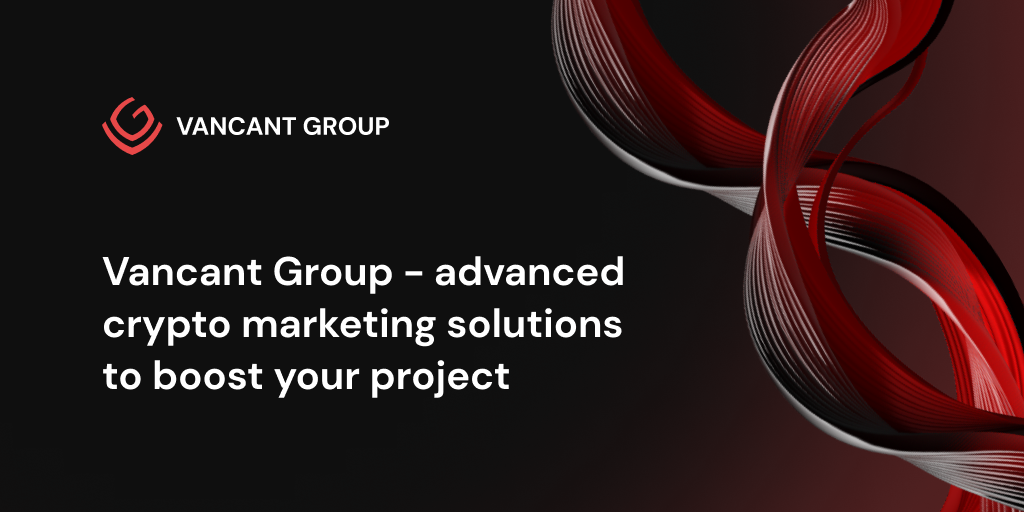
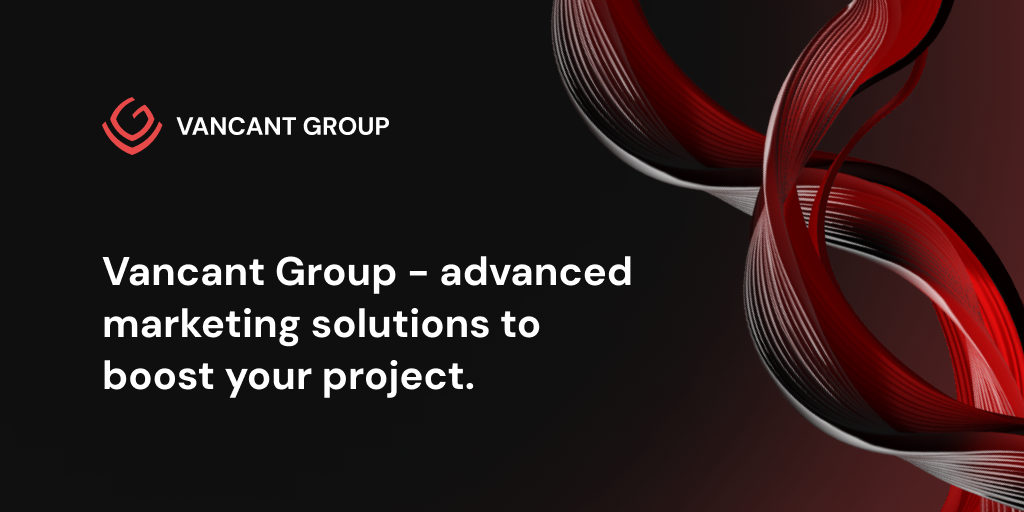
Fixed content

Changed region(s): [[0.0938, 0.5, 0.625, 0.6875], [0.0938, 0.7188, 0.5, 0.7812]]

diff --git a/src/app/[locale]/blog/_components/BlogWrap.jsx b/src/app/[locale]/blog/_components/BlogWrap.jsx
@@ -11,11 +11,11 @@ function BlogWrap({mainPostTitle, mainPostDescription, secondaryPost1Title, seco
         <div className="blog-wrap__body">
           <div className="left">
             <RevealWrapper origin="bottom">
-              <Link href="/blog/maximising-roi-effective-strategies-for-optimising-ppc-campaigns-in-crypto-marketing">
+              <Link href="/blog/maximising-roi-effective-strategies-for-optimising-ppc-campaigns">
                 <img src="/images/blog.png" />
               </Link>
               <h2>
-                <Link href="/blog/maximising-roi-effective-strategies-for-optimising-ppc-campaigns-in-crypto-marketing">
+                <Link href="/blog/maximising-roi-effective-strategies-for-optimising-ppc-campaigns">
                   {mainPostTitle}
                 </Link>
               </h2>
@@ -23,7 +23,7 @@ function BlogWrap({mainPostTitle, mainPostDescription, secondaryPost1Title, seco
                 {mainPostDescription}
               </p>
               <Link
-                href="/blog/maximising-roi-effective-strategies-for-optimising-ppc-campaigns-in-crypto-marketing"
+                href="/blog/maximising-roi-effective-strategies-for-optimising-ppc-campaigns"
                 className="main-button"
               >
                 {readButton}
@@ -33,12 +33,12 @@ function BlogWrap({mainPostTitle, mainPostDescription, secondaryPost1Title, seco
           <div className="right">
             <RevealWrapper origin="bottom">
               <h2>
-                <Link href="/blog/maximising-roi-effective-strategies-for-optimising-ppc-campaigns-in-crypto-marketing">
+                <Link href="/blog/navigating-regulatory-challenges-compliance-tips-for-advertising">
                   {secondaryPost1Title}
                 </Link>
               </h2>
               <Link
-                href="/blog/navigating-regulatory-challenges-compliance-tips-for-crypto-advertising"
+                href="/blog/navigating-regulatory-challenges-compliance-tips-for-advertising"
                 className="main-button"
               >
                 {readButton}
@@ -46,12 +46,12 @@ function BlogWrap({mainPostTitle, mainPostDescription, secondaryPost1Title, seco
             </RevealWrapper>
             <RevealWrapper origin="bottom">
               <h2>
-                <Link href="/blog/maximising-roi-effective-strategies-for-optimising-ppc-campaigns-in-crypto-marketing">
+                <Link href="/blog/harnessing-the-power-of-influencer-marketing">
                  {secondaryPost2Title}
                 </Link>
               </h2>
               <Link
-                href="/blog/harnessing-the-power-of-influencer-marketing-in-cryptocurrency-promotion"
+                href="/blog/harnessing-the-power-of-influencer-marketing"
                 className="main-button"
               >
                 {readButton}
@@ -59,12 +59,12 @@ function BlogWrap({mainPostTitle, mainPostDescription, secondaryPost1Title, seco
             </RevealWrapper>
             <RevealWrapper origin="bottom">
               <h2>
-                <Link href="/blog/maximising-roi-effective-strategies-for-optimising-ppc-campaigns-in-crypto-marketing">
+                <Link href="/blog/content-marketing-crafting-really-engaging-content-for-your-audiences">
                   {secondaryPost3Title}
                 </Link>
               </h2>
               <Link
-                href="/blog/crypto-content-marketing-crafting-engaging-content-for-digital-currency-audiences"
+                href="/blog/content-marketing-crafting-really-engaging-content-for-your-audiences"
                 className="main-button"
               >
                 {readButton}

diff --git a/src/lib/faqQuestionsEn.js b/src/lib/faqQuestionsEn.js
@@ -11,7 +11,7 @@ export const faqQuestionsEn = [
     {
         id: 2,
         category: 'SEO',
-        question: "We've developed a landing page to promote our crypto project, but it fails to rank on Google. What shall we do?",
+        question: "We've developed a landing page to promote our project, but it fails to rank on Google. What shall we do?",
         answer: `Landing pages often struggle to rank on search engines due to a lack of high-quality content, relevant backlinks, and natural mentions. To address this issue, consider the following strategies:
         <br/><br/>
         <strong>Improve your website:</strong> Develop a comprehensive website with valuable content that addresses user intent and pain points.
@@ -26,14 +26,11 @@ export const faqQuestionsEn = [
         id: 3,
         category: 'Community Building',
         question: "We have accounts on Facebook and Twitter, and we regularly post content in various formats. However, we're experiencing very low engagement and struggle to attract users. What are we doing wrong?",
-        answer: `To provide a comprehensive answer, we'd need more data and analysis. However, your current approach may be too heavily focused on content creation and quantitative metrics. In the crypto industry, effective promotion requires precision and specificity.
+        answer: `To provide a comprehensive answer, we'd need more data and analysis. However, your current approach may be too heavily focused on content creation and quantitative metrics. Effective promotion requires precision and specificity.
         <br/><br/>
-        One aspect to consider is whether you've chosen the right platforms for your project. While Facebook and Twitter are popular social networks, they may not be the most effective channels for reaching your target audience in the crypto space. Instead, focusing on crypto-specific media outlets and social networks could yield better results. 
+        One aspect to consider is whether you've chosen the right platforms for your project. While Facebook and Twitter are popular social networks, they may not be the most effective channels for reaching your target audience. Instead, focusing on industry-specific media outlets and social networks could yield better results. 
         <br/><br/>
-        These platforms are tailored to the interests of crypto enthusiasts and investors, making it easier to attract your target audience without the need for a significant budget.
-        <br/><br/>
-        Additionally, conducting a thorough audience analysis is essential. By understanding your target audience's preferences and pain points, you can tailor your content and targeting strategies to better resonate with them.
-        If you're able to provide more details, we can further explore the reasons behind your low engagement and collaborate on developing a growth strategy.`
+        Additionally, conducting a thorough audience analysis is essential. By understanding your target audience's preferences and pain points, you can tailor your content and targeting strategies to better resonate with them. If you're able to provide more details, we can further explore the reasons behind your low engagement and collaborate on developing a growth strategy.`
     },
     {
         id: 4,

diff --git a/src/lib/pricingEn.js b/src/lib/pricingEn.js
@@ -2,7 +2,7 @@ export const pricingEn = [
     {
         id: 1,
         title: "Brand new",
-        content: `Ideal for newly launched crypto projects, the Brand New Package provides comprehensive marketing support for startups. It includes everything needed to establish a strong online presence, build brand awareness, and attract the target audience.`,
+        content: `Ideal for newly launched projects, the Brand New Package provides comprehensive marketing support for startups. It includes everything needed to establish a strong online presence, build brand awareness, and attract the target audience.`,
         included: `<ul>
         <li>Branding: Logo design, brand identity development</li>
         <li>Website Development: Custom website design, development, and launch</li>
@@ -16,7 +16,7 @@ export const pricingEn = [
     {
         id: 2,
         title: "Launched",
-        content: `Designed for crypto projects with an existing website and branding, the Launched Package focuses on increasing visibility and engagement. It suits crypto businesses looking to enhance their online presence and attract more customers.`,
+        content: `Designed for the projects with an existing website and branding, the Launched Package focuses on increasing visibility and engagement. It suits businesses looking to enhance their online presence and attract more customers.`,
         included: `<ul>
         <li>SEO Optimization: Content optimization, link building</li>
         <li>PR Campaigns: Media relations, feature articles, press releases</li>
@@ -29,7 +29,7 @@ export const pricingEn = [
     {
         id: 3,
         title: "Established",
-        content: `The Established Package is suitable for crypto projects with an active website and community presence. It aims to boost traffic and authority and is ideal for crypto businesses seeking to expand their reach and strengthen their position in the market.`,
+        content: `The Established Package is suitable for the projects with an active website and community presence. It aims to boost traffic and authority and is ideal for businesses seeking to expand their reach and strengthen their position in the market.`,
         included: `<ul>
         <li>Paid Advertising: Google Ads, Facebook Ads, display advertising</li>
         <li>Content Marketing: Blog post writing, whitepapers, case studies</li>
@@ -42,7 +42,7 @@ export const pricingEn = [
     {
         id: 4,
         title: "Competing",
-        content: `Tailored for crypto projects ready to compete with rivals, the Competing Package offers advanced marketing solutions. It's designed for businesses looking to outshine competitors and dominate the niche.`,
+        content: `Tailored for projects ready to compete with rivals, the Competing Package offers advanced marketing solutions. It's designed for businesses looking to outshine competitors and dominate the niche.`,
         included: `<ul>
         <li>Additional Media Coverage: Press mentions, guest posting, industry awards</li>
         <li>Competitor Analysis: Detailed analysis of competitors' strategies and performance</li>

diff --git a/src/lib/servicesEn.js b/src/lib/servicesEn.js
@@ -15,7 +15,7 @@ export const servicesEn = [
     {
         id: 2,
         title: "Content Marketing and PR",
-        content: `Our expert team crafts compelling content and strategic PR campaigns to establish your project as a trusted authority in the crypto space. From impactful press releases and thought leadership articles to engaging guest blogs and media outreach, we ensure widespread recognition and positive sentiment.`,
+        content: `Our expert team crafts compelling content and strategic PR campaigns to establish your project as a trusted authority in the digital space. From impactful press releases and thought leadership articles to engaging guest blogs and media outreach, we ensure widespread recognition and positive sentiment. `,
         result: `Enhanced project credibility, increased media coverage, and improved brand reputation driving investor confidence and community engagement.`,
         included: `<ul>
         <li>Content creation (articles, blog posts, press releases)</li>
@@ -28,7 +28,7 @@ export const servicesEn = [
     {
         id: 3,
         title: "Community Engagement and Management",
-        content: `Our team fosters an engaged and active community around your crypto project. We ensure continuous interaction and participation through strategic social media management, interactive community forums, and engaging online events.`,
+        content: `Our team fosters an engaged and active community around your project. We ensure continuous interaction and participation through strategic social media management, interactive community forums, and engaging online events. `,
         result: `A loyal and enthusiastic following that drives word-of-mouth referrals, boosts project credibility, and increases user adoption rates.`,
         included: `<ul>
         <li>Social media management (content posting, engagement)</li>
@@ -54,7 +54,7 @@ export const servicesEn = [
     {
         id: 5,
         title: "Advertising and Promotion",
-        content: `Our targeted advertising campaigns across social media platforms, crypto-specific websites, and influencer partnerships maximise your project's reach and visibility. We drive high-quality traffic and engagement by strategically positioning your project in front of your key demographics.`,
+        content: `Our targeted advertising campaigns across social media platforms, reputable websites, and influencer partnerships maximise your project's reach and visibility. We drive high-quality traffic and engagement by strategically positioning your project in front of your key demographics. `,
         result: `Increased project awareness, expanded user base, and improved conversion rates, ultimately leading to accelerated project growth and success.`,
         included: `<ul>
         <li>Social media advertising (Facebook ads, Twitter ads)</li>

diff --git a/src/app/[locale]/layout.jsx b/src/app/[locale]/layout.jsx
@@ -13,18 +13,18 @@ const dm_sans = DM_Sans({ subsets: ["latin"] });
 
 export const metadata = {
   title: {
-    default: "Crypto marketing solutions | Vancant Group",
+    default: "Advanced marketing solutions | Vancant Group",
     template: "%s | Vancant Group",
   },
   description:
-    "Discover the potential of marketing for your crypto projects. Vancant Group drives your crypto project to success through natural mentions, influencer recommendations, and connections.",
+    "Discover the potential of marketing for your projects. Vancant Group drives your project to success through natural mentions, influencer recommendations, and connections.",
   openGraph: {
     title: {
-      default: "Crypto marketing solutions | Vancant Group",
+      default: "Advanced marketing solutions | Vancant Group",
       template: "%s | Vancant Group",
     },
     description:
-      "Discover the potential of marketing for your crypto projects. Vancant Group drives your crypto project to success through natural mentions, influencer recommendations, and connections.",
+      "Discover the potential of marketing for your projects. Vancant Group drives your project to success through natural mentions, influencer recommendations, and connections.",
     images: "https://vancantgroup.com/images/meta.png",
   },
 };

diff --git a/src/app/[locale]/pricing/page.jsx b/src/app/[locale]/pricing/page.jsx
@@ -12,13 +12,13 @@ import { pricingIt } from "@/src/lib/pricingIt";
 import { pricingDe } from "@/src/lib/pricingDe";
 
 export const metadata = {
-  title: "Crypto marketing pricing",
+  title: "Marketing services pricing",
   description:
-    "Explore Vancant Group's pricing approach. Learn how we explore and analyse a project to offer and price a solution. Discover complex service packages for different stages of crypto projects.",
+    "Explore Vancant Group's pricing approach. Learn how we explore and analyse a project to offer and price a solution. Discover complex service packages for different stages of brand growth.",
   openGraph: {
-    title: "Crypto marketing pricing",
+    title: "Marketing services pricing",
     description:
-      "Explore Vancant Group's pricing approach. Learn how we explore and analyse a project to offer and price a solution. Discover complex service packages for different stages of crypto projects.",
+      "Explore Vancant Group's pricing approach. Learn how we explore and analyse a project to offer and price a solution. Discover complex service packages for different stages of brand growth.",
     images: "https://vancantgroup.com/images/meta.png",
   },
 };

diff --git a/src/app/[locale]/faq/page.jsx b/src/app/[locale]/faq/page.jsx
@@ -11,13 +11,13 @@ import ContactForm from "./_components/ContactForm";
 import { getLocale } from "next-intl/server";
 
 export const metadata = {
-  title: "Crypto marketing FAQ",
+  title: "Marketing FAQ",
   description:
-    "Struggling to succeed in crypto marketing? Submit your issue to our experts, and we will provide you with possible reasons and solutions to drive your project to success. Read our expert answers.",
+    "Struggling to succeed in marketing? Submit your issue to our experts, and we will provide you with possible reasons and solutions to drive your project to success. Read our expert answers.",
   openGraph: {
-    title: "Crypto marketing FAQ",
+    title: "Marketing FAQ",
     description:
-      "Struggling to succeed in crypto marketing? Submit your issue to our experts, and we will provide you with possible reasons and solutions to drive your project to success. Read our expert answers.",
+      "Struggling to succeed in marketing? Submit your issue to our experts, and we will provide you with possible reasons and solutions to drive your project to success. Read our expert answers.",
     images: "https://vancantgroup.com/images/meta.png",
   },
 };

diff --git a/src/app/[locale]/services/page.jsx b/src/app/[locale]/services/page.jsx
@@ -11,13 +11,13 @@ import { servicesIt } from "@/src/lib/servicesIt";
 import { servicesDe } from "@/src/lib/servicesDe";
 
 export const metadata = {
-  title: "Crypto marketing services",
+  title: " Our marketing services",
   description:
-    " Explore crypto marketing services for community building, SEO, PR, advertising strategies, compliance, and branding. At Vancant Group, we guide your project from inception to success.",
+    "Explore marketing services for community building, SEO, PR, advertising strategies, compliance, and branding. At Vancant Group, we guide your project from inception to success.",
   openGraph: {
-    title: "Crypto marketing services",
+    title: " Our marketing services",
     description:
-      " Explore crypto marketing services for community building, SEO, PR, advertising strategies, compliance, and branding. At Vancant Group, we guide your project from inception to success.",
+      "Explore marketing services for community building, SEO, PR, advertising strategies, compliance, and branding. At Vancant Group, we guide your project from inception to success.",
     images: "https://vancantgroup.com/images/meta.png",
   },
 };

diff --git a/src/app/[locale]/blog/page.jsx b/src/app/[locale]/blog/page.jsx
@@ -5,13 +5,13 @@ import BlogWrap from "./_components/BlogWrap";
 import { useTranslations } from "next-intl";
 
 export const metadata = {
-  title: "Crypto marketing blog",
+  title: "Marketing blog",
   description:
-    "Get insights and recommendations from top crypto marketing experts. The Vancant Group team closely monitors marketing trends and the crypto industry to provide you with the most effective solutions.",
+    " Get insights and recommendations from top marketing experts. The Vancant Group team closely monitors marketing trends to provide you with the most effective solutions. ",
   openGraph: {
-    title: "Crypto marketing blog",
+    title: "Marketing blog",
     description:
-      "Get insights and recommendations from top crypto marketing experts. The Vancant Group team closely monitors marketing trends and the crypto industry to provide you with the most effective solutions.",
+      " Get insights and recommendations from top marketing experts. The Vancant Group team closely monitors marketing trends to provide you with the most effective solutions. ",
     images: "https://vancantgroup.com/images/meta.png",
   },
 };

diff --git a/src/app/[locale]/about-us/page.jsx b/src/app/[locale]/about-us/page.jsx
@@ -10,11 +10,11 @@ import { useTranslations } from "next-intl";
 export const metadata = {
   title: "About us ",
   description:
-    "Learn how we came to Vancant Group, as well as our mission and vision, objectives, and strategies for driving crypto projects to success. Get to know us better. Contact Vancant Group.",
+    "Learn how we came to Vancant Group, as well as our mission and vision, objectives, and strategies for driving projects to success. Get to know us better. Contact Vancant Group.",
   openGraph: {
     title: "About us ",
     description:
-      "Learn how we came to Vancant Group, as well as our mission and vision, objectives, and strategies for driving crypto projects to success. Get to know us better. Contact Vancant Group.",
+      "Learn how we came to Vancant Group, as well as our mission and vision, objectives, and strategies for driving projects to success. Get to know us better. Contact Vancant Group.",
     images: "https://vancantgroup.com/images/meta.png",
   },
 };

diff --git a/src/app/[locale]/contact-us/page.jsx b/src/app/[locale]/contact-us/page.jsx
@@ -11,11 +11,11 @@ import { useTranslations } from "next-intl";
 export const metadata = {
   title: "Contact Us",
   description:
-    "Contact a crypto marketing expert to find a solution for your crypto marketing challenge. The Vancant Group team will consult you on possible solutions from branding to compliance.",
+    "Contact a marketing expert to find a solution for any marketing challenge. The Vancant Group team will consult you on possible solutions from branding to compliance.",
   openGraph: {
     title: "Contact Us",
     description:
-      "Contact a crypto marketing expert to find a solution for your crypto marketing challenge. The Vancant Group team will consult you on possible solutions from branding to compliance.",
+      "Contact a marketing expert to find a solution for any marketing challenge. The Vancant Group team will consult you on possible solutions from branding to compliance.",
     images: "https://vancantgroup.com/images/meta.png",
   },
 };

diff --git a/src/lib/content/content-marketing-crafting-really-engaging-content-for-your-audiences.md b/src/lib/content/content-marketing-crafting-really-engaging-content-for-your-audiences.md
@@ -1,0 +1,18 @@
+---
+title: "Content Marketing: Crafting Really Engaging Content for Your Audiences"
+seo_title: "How to create really effective content"
+seo_description: "Creating just some content is not enough for project success. Learn what content the industry needs to drive your project to success: boost your target audience's interest, engagement, and interactions."
+
+---
+
+Content marketing is crucial in promoting new projects and engaging audiences. To effectively reach and resonate with the audience, brands must craft engaging content that addresses their pain points, interests, and informational needs.
+
+**Strategies for crafting compelling content** 
+
+*   **Educational Content**: Provide valuable educational content that helps users understand complex concepts, technologies, and teach them to use your products or services. Offer tutorials, guides, and explainers that break down complex topics into digestible and accessible formats. Use clear language, visuals, and examples to simplify complex concepts and empower your audience with knowledge.
+*   **News and Updates**: Keep your audience informed about the latest news, developments, and trends in the industry. Curate relevant news articles, market analysis, and expert insights to provide timely and valuable information. Cover market trends, regulatory updates, new project launches, and industry events to keep your audience engaged and informed.
+*   **Case Studies and Success Stories:** Showcase real-life examples of success stories and case studies to demonstrate the value and potential of your project. Highlight user testimonials, client success stories, and project milestones to build credibility and trust with your audience. Share concrete examples of how your project has solved problems, achieved results, and delivered tangible user benefits.
+*   **Interactive Content**: Engage your audience with interactive, immersive experiences that encourage participation and exploration. Create interactive quizzes, surveys, calculators, and tools that allow users to interact with your content and gain valuable insights. Incorporate multimedia elements such as videos, infographics, and interactive charts to enhance your content's visual appeal and engagement.
+*   **Community Building**: Foster a sense of community and belonging among your audience by encouraging user participation and engagement. Host live Q&A sessions, webinars, and virtual events where users can interact with your team and ask questions. Facilitate discussions, share user-generated content, and encourage peer-to-peer interactions to build a strong and engaged community around your project.
+
+By implementing these specific strategies for crafting engaging content, brands can effectively connect with audiences, build brand awareness, and drive user engagement in the competitive market.
